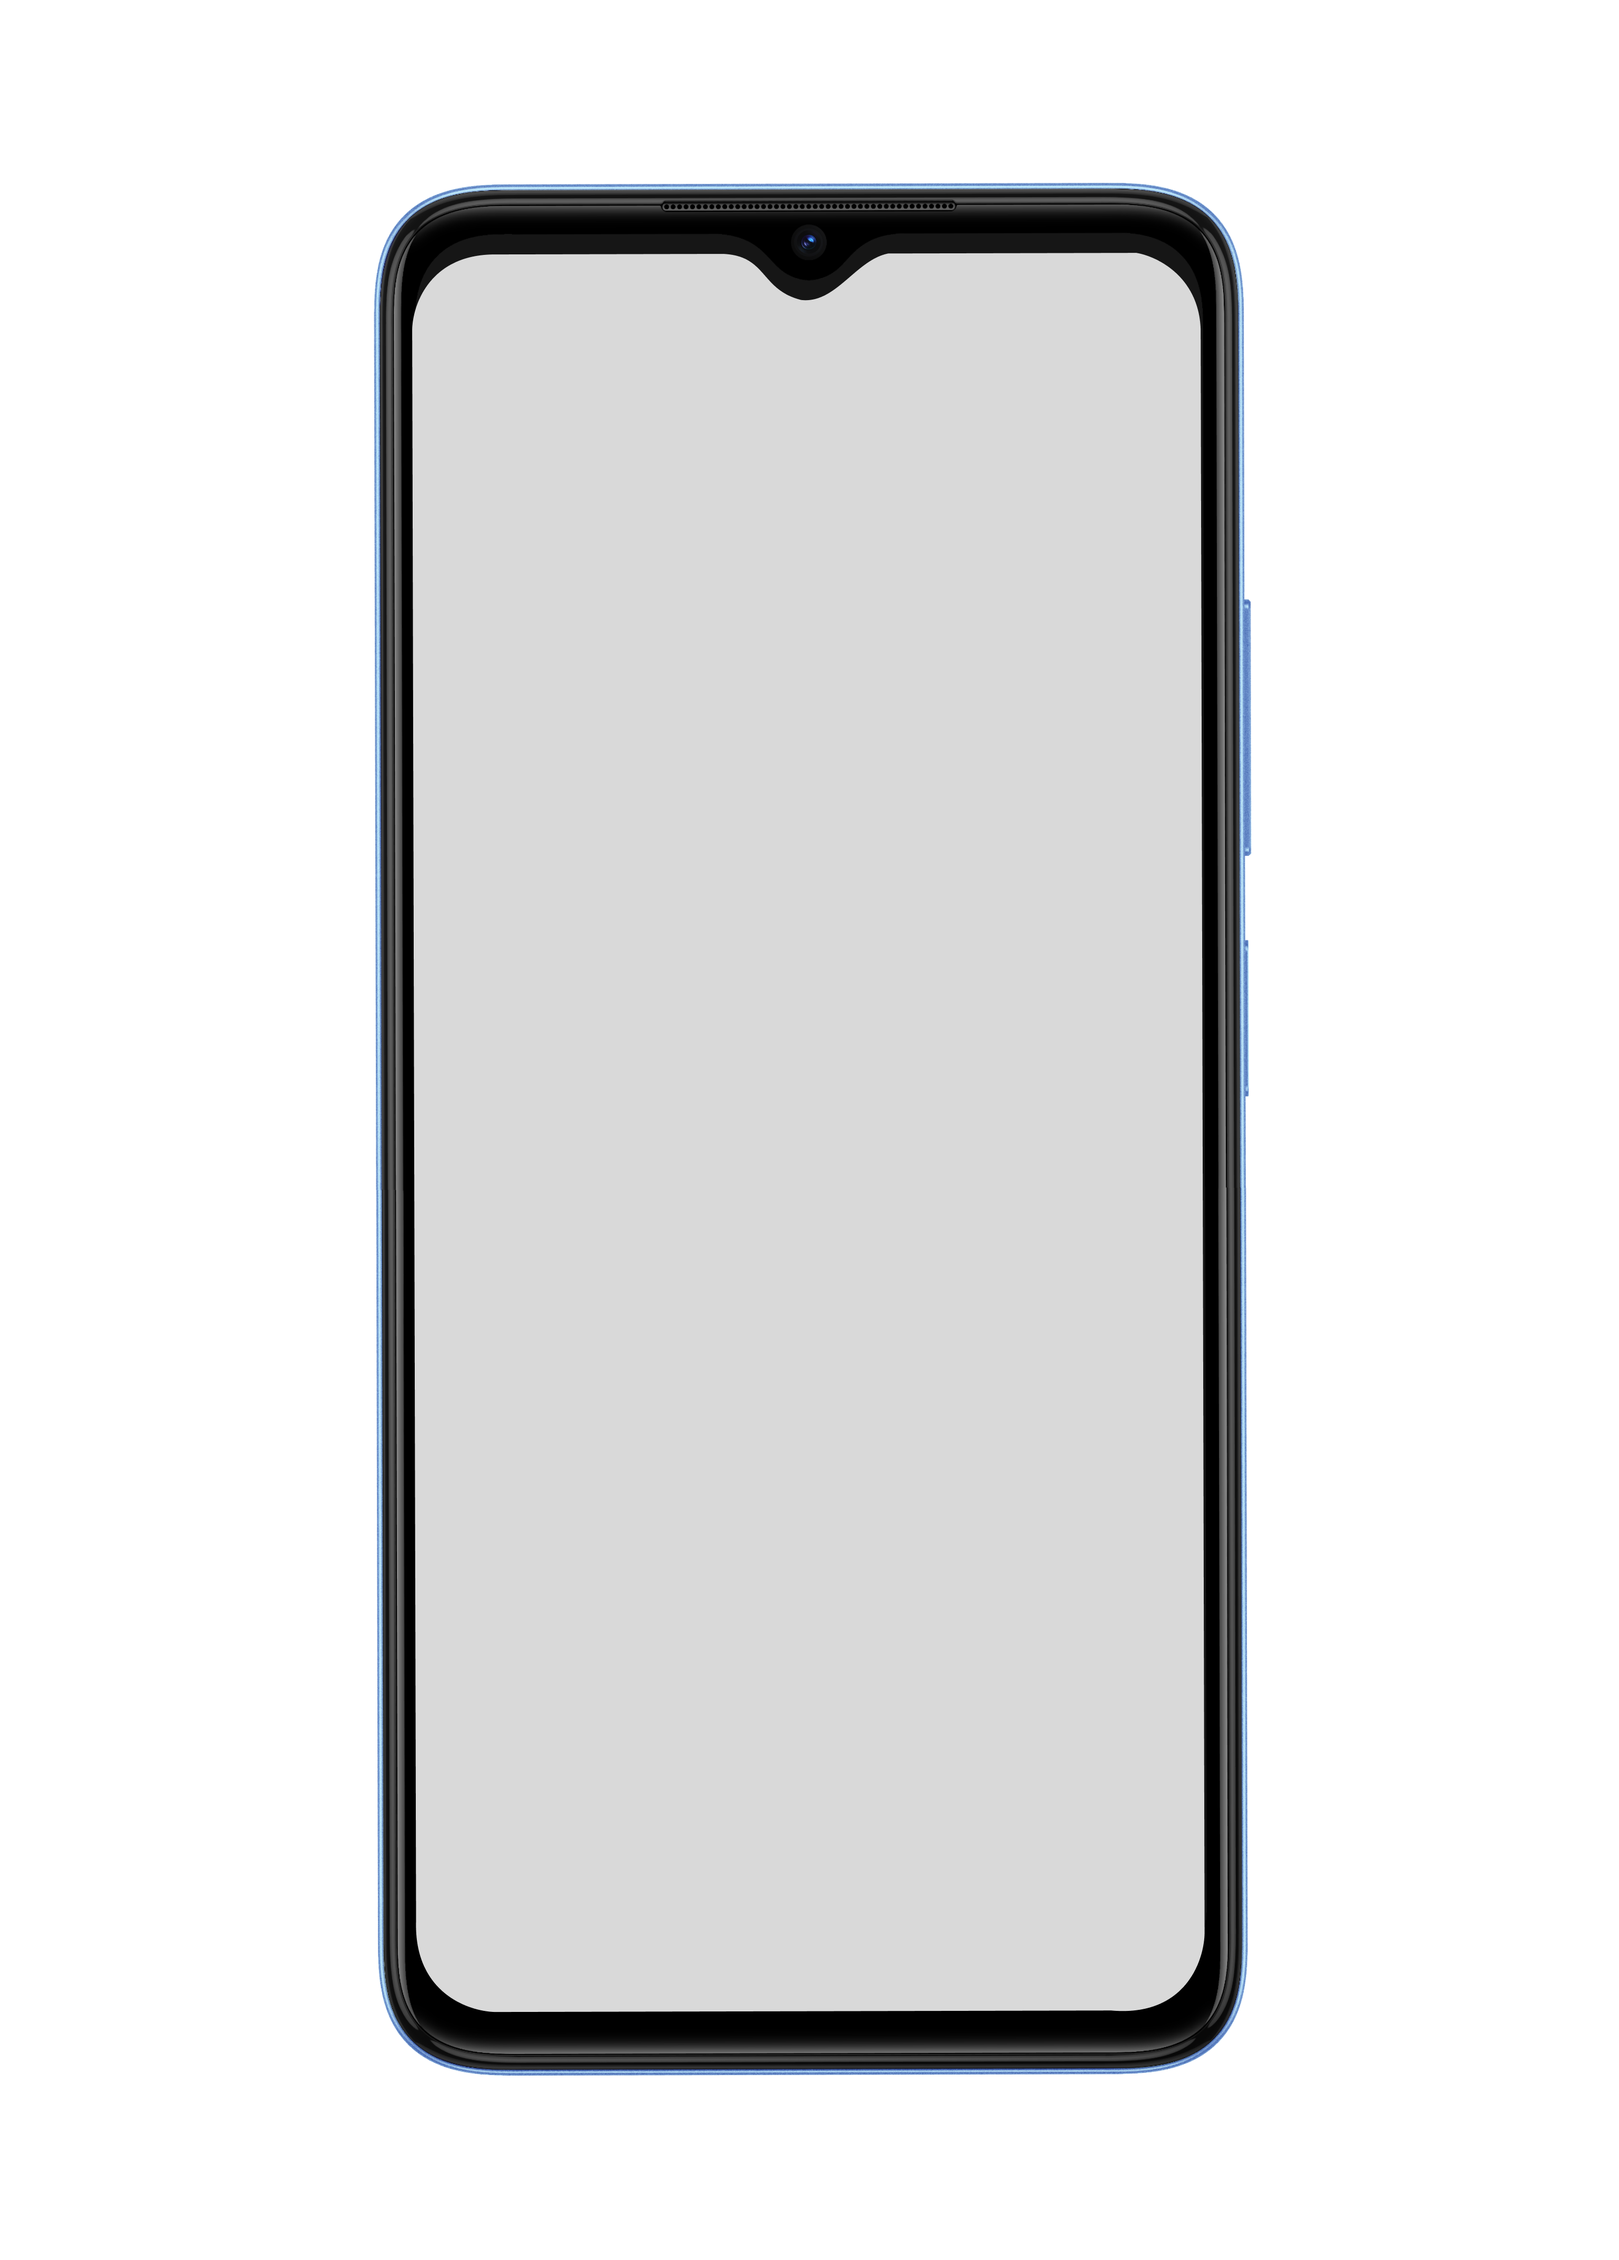
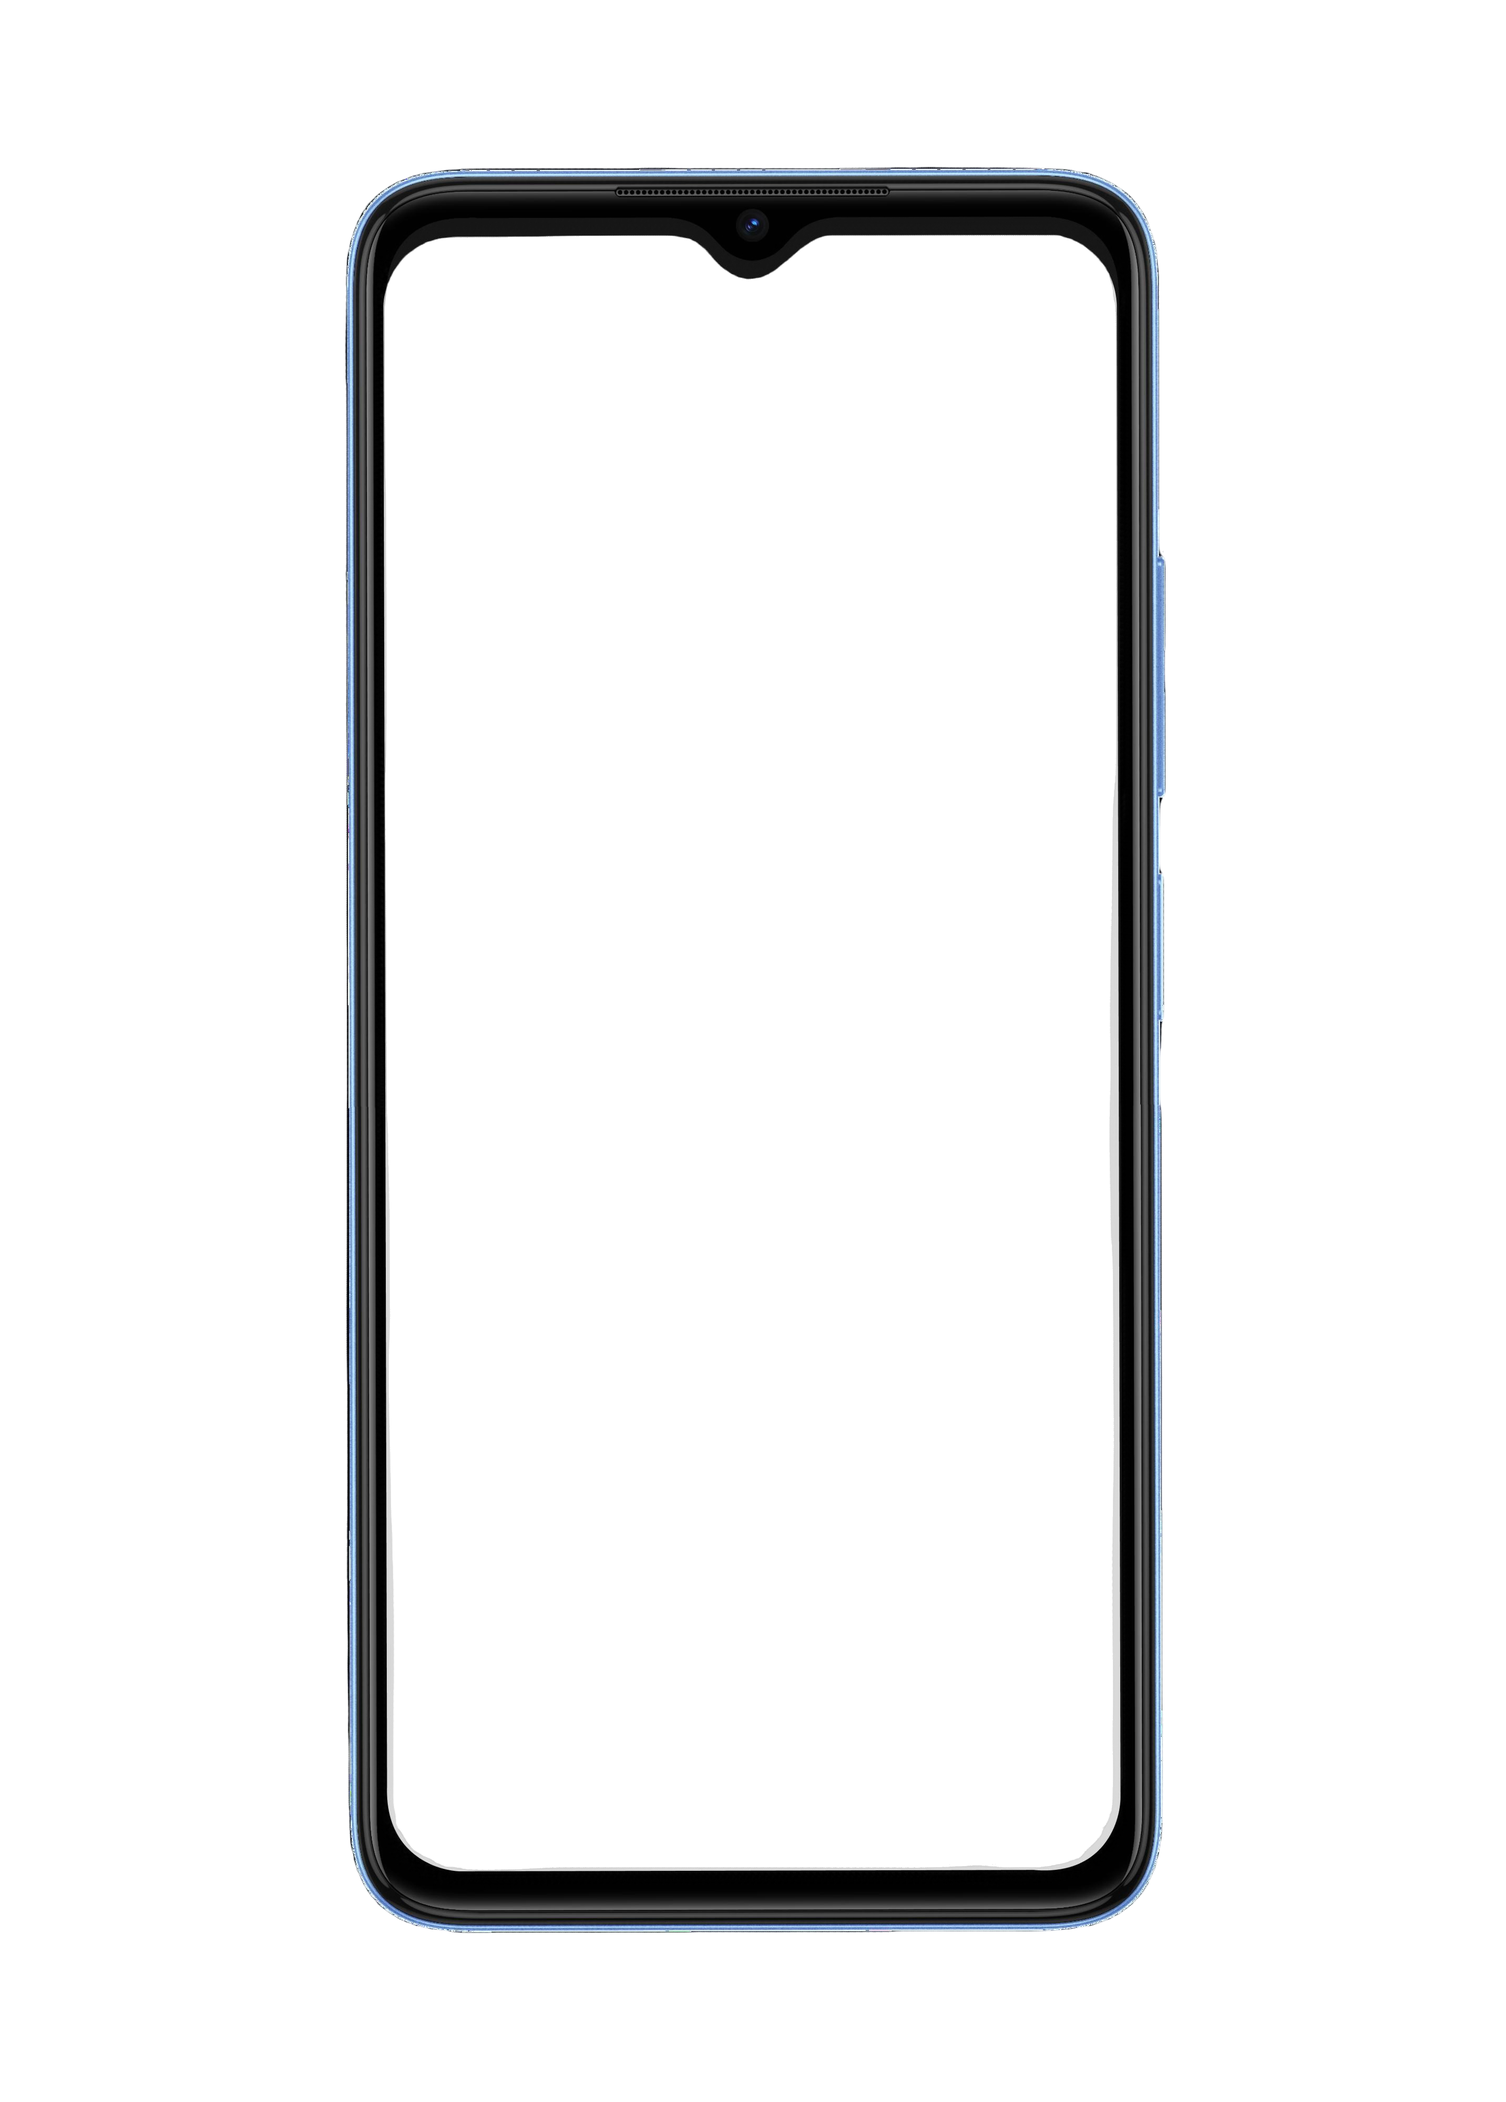
Fixes

diff --git a/src/ColorPro5gContents/ColorPro5gAssets/style.css b/src/ColorPro5gContents/ColorPro5gAssets/style.css
@@ -13,11 +13,12 @@
 }
 
 .s-bannerUp {
-  height: calc(100svh - 101px);
+  height: 100svh;
   width: 100%;
   position: relative;
   display: flex;
   align-items: flex-end;
+  overflow: hidden;
 }
 
 .s-bannerUp video {
@@ -160,6 +161,7 @@
   align-items: flex-start;
   gap: 60px;
   background: #181818;
+    overflow: hidden;
 }
 
 .s-features .s-heading {
@@ -468,6 +470,7 @@
   gap: 42px;
   padding: 80px 120px;
   background: #010005;
+    overflow: hidden;
 }
 
 .s-enhance .s-heading {
@@ -500,13 +503,11 @@
 
 .s-enhanceVideo {
   width: 100%;
-  height: 663.75px;
   overflow: hidden;
 }
 
 .s-enhanceVideo video {
   width: 100%;
-  height: 663.75px;
   object-fit: cover;
 }
 
@@ -586,6 +587,7 @@
   align-items: center;
   gap: 60px;
   background: #111;
+  overflow: hidden;
 }
 
 .s-colourUp {
@@ -600,7 +602,6 @@
 
 .ColourBackground {
   width: 100%;
-  height: 100%;
   position: absolute;
   top: 50%;
   left: 50%;
@@ -736,12 +737,13 @@
 
 .s-revolution {
   width: 100%;
-  height: 100vh;
+  height: 1150px;
   display: flex;
   align-items: flex-start;
   justify-content: center;
   gap: 4px;
   position: relative;
+    overflow: hidden;
 }
 
 .s-revolutionBackground {
@@ -753,11 +755,10 @@
 
 .s-revolutionPhone {
   position: absolute;
-  height: 440.273px;
-  width: 933.714px;
+  height: 1200px;
   top: 50%;
   left: 50%;
-  transform: translate(-50%, -50%);
+  transform: translate(-50%, -50%) rotate(-90deg);
   z-index: 3;
 }
 

diff --git a/src/ColorPro5gContents/ColorPro5gComponents/Overview/Revolution.jsx b/src/ColorPro5gContents/ColorPro5gComponents/Overview/Revolution.jsx
@@ -1,5 +1,6 @@
 import React, { useState, useEffect } from "react";
 import RevolutionBackground from "../../ColorPro5gAssets/Revolution/Revolution.svg";
+import PhoneFrame from "../../ColorPro5gAssets/Revolution/PhoneFrame.png";
 import HighSpeed from "../../ColorPro5gAssets/Revolution/Highspeed.mov";
 import LowLag from "../../ColorPro5gAssets/Revolution/LowLag.mov";
 import BetterExperience from "../../ColorPro5gAssets/Revolution/BetterExperience.mp4";
@@ -40,7 +41,7 @@ function Revolution() {
         </p>
       </div>
       <div className="s-revolutionPhone">
-        <img alt="phone" />
+        <img src={PhoneFrame} alt="phone" />
       </div>
       <div className="s-revolutionVideo">
         {/* Render the current video */}

diff --git a/style.css b/style.css
@@ -1,0 +1,18 @@
+* {
+  margin: 0;
+  padding: 0;
+  box-sizing: border-box;
+  letter-spacing: normal;
+}
+
+@font-face {
+  font-family: "Mark OT";
+  src: url("/Mark OT/MarkOT.otf") format("opentype"); /* Use 'opentype' for .otf */
+  font-weight: normal; /* You can adjust the weight based on the font */
+  font-style: normal; /* Change this to 'italic' if it's an italic version */
+}
+
+/* Navbar */
+
+.navbar {
+}

diff --git a/src/App.jsx b/src/App.jsx
@@ -1,8 +1,14 @@
 import React from "react";
+import Navbar from "./components/Navbar";
 import ColorPro5g from "./ColorPro5gContents/ColorPro5g";
 
 function App() {
-  return <ColorPro5g />;
+  return (
+    <>
+      <Navbar />
+      <ColorPro5g />
+    </>
+  );
 }
 
 export default App;

diff --git a/src/components/Navbar.jsx b/src/components/Navbar.jsx
@@ -1,0 +1,12 @@
+import React from 'react'
+import "../../style.css"
+
+function Navbar() {
+  return (
+    <div className='navbar'>
+      
+    </div>
+  )
+}
+
+export default Navbar

diff --git a/src/ColorPro5gContents/ColorPro5gComponents/Overview/RamRom.jsx b/src/ColorPro5gContents/ColorPro5gComponents/Overview/RamRom.jsx
@@ -1,0 +1,11 @@
+import React from 'react'
+
+function RamRom() {
+  return (
+    <div className='s-ramrom'>
+      
+    </div>
+  )
+}
+
+export default RamRom
